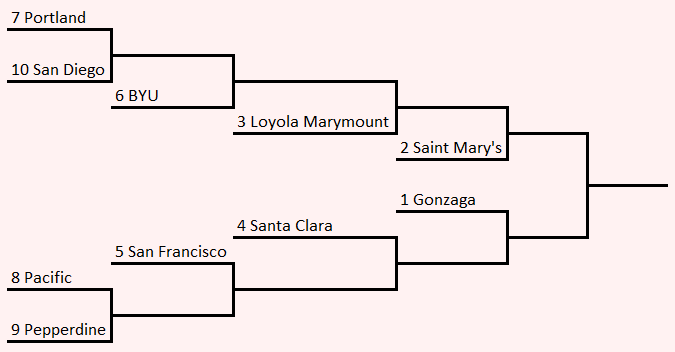
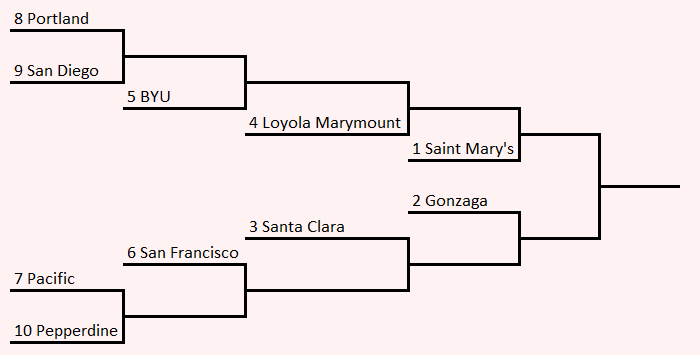
Update to ordered brackets in new style

Changed region(s): [[0.0, 0.375, 0.9956, 1.0], [0.3422, 0.1562, 0.7778, 0.4688], [0.0, 0.0312, 0.2489, 0.3125]]

diff --git a/thesis-tex/sections/Brackets/Ordered Brackets I.tex b/thesis-tex/sections/Brackets/Ordered Brackets I.tex
@@ -1,8 +1,8 @@
 \sub {
 
-Let's consider the proper bracket $\bracksig{16; 0; 0; 0; 0}$, which was used in the 2022 NCAA Women's Basketball Tournament Wichita Region, and is shown here: (Sometimes brackets are drawn in the manner below, with teams starting on both sides and the winner of each side playing in the championship game.)
+Let's consider the proper bracket $\bracksig{16; 0; 0; 0; 0}$, which was used in the 2022 NCAA Women's Basketball Tournament Wichita Region, and is shown below. (Sometimes brackets are drawn in the manner below, with teams starting on both sides and the winner of each side playing in the championship game.)
 
-\fig{0.8}{2021 NCAA Basketball Tournament South Region.png}{2022 NCAA Women's Basketball Tournament Wichita Region}{}
+\fig{0.8}{ncaa}{2022 NCAA Women's Basketball Tournament Wichita Region}{}
 
 The definition of a proper seeding ensures that as long as the bracket goes chalk (that is, higher seeds always beat lower seeds), it will always be better to be a higher seed than a lower seed. But what if it doesn't go chalk?
 
@@ -18,7 +18,7 @@ One counter-intuitive fact about the NCAA Basketball Tournament is that it is pr
     \end{tabular}
 \end{figg}
 
-The 9-seed has an easier first-round matchup, while the 10-seed has an easier second-round matchup. However, this isn't quite symmetrical. Because the teams are (most likely) drawn from a roughly normal distribution, the difference in skill between the 1- and 2-seeds is far greater than the difference between the 7- and 8-seeds, implying that the 10-seed does in fact have an easier route than the 9-seed.
+The 9-seed has an easier first-round matchup, while the 10-seed has an easier second-round matchup. However, this isn't quite symmetrical. Because the teams are probably drawn from a roughly normal distribution, the expected difference in skill between the 1- and 2-seeds is far greater than the expected difference between the 7- and 8-seeds, implying that the 10-seed does in fact have an easier route than the 9-seed.
 
 Nate Silver investigated this matter in full, finding that in the NCAA Basketball Tournament, seed-lines 10 through 15 give teams better odds of winning the region than seed-lines 8 and 9. Of course this does not mean that the 11-seed (say) has a better chance of winning a given region than the 8-seed does, as the 8-seed is a much better team than the 11-seed. But it does mean that the 8-seed would love to swap places with the 11-seed, and that doing so would increase their odds to win the region.
 
@@ -34,7 +34,7 @@ To fix this, we need a stronger notion of what makes a bracket effective than pr
     A list of teams is \textit{strongly stochastically transitive} if for each $i, j, k$ such that $j < k$, $$\P(t_i \textrm{ beats } t_j) \leq \P(t_i \textrm{ beats } t_k).$$
 \end{definition}
 
-A list of teams being strongly stochastically transitive (or SST) captures the intuition that each team ought to do better against lower-seeded teams than against lower-seeded teams.
+A list of teams being strongly stochastically transitive (or SST) captures the intuition that each team ought to do better against lower-seeded teams than against higher-seeded teams.
 
 A few quick implications of this definition are:
 
@@ -54,10 +54,10 @@ Our new, nuanced alternative a proper bracket is an \textit{ordered bracket}.
     A bracket and seeding are \textit{ordered} if, for any SST list of teams, if $i < j$, then $\P(t_i\textrm{ wins the tournament} )\geq \P(t_j\textrm{ wins the tournament}).$
 \end{definition}
 
-In many ways, a bracket being ordered is the strongest thing we can want without making any ``moral'' judgments. It might be unclear (and vary by situation) whether a it is better for a format to almost always declare the most-skilled team the winner, or to give each team roughly the same chance of winning, or anywhere in between. But certainly, better teams should win more, which is what the ordered bracket stipulation requires.
+In an informal sense, a bracket being ordered is the strongest thing we can want without knowing more about why the tournament is being played. Depending on the situation, we might be interested in a format that almost always declares the most-skilled team as the winner, or in a format that gives each team roughly the same chance of winning, or anywhere in between. But certainly, better teams should win more, which is what the ordered bracket condition requires.
 
 In particular, a bracket being ordered is a stronger claim than it being proper.
-%/A vs /B
+
 \theo{}{Every ordered bracket is proper.}{
     Let $\A$ be an ordered $n$-team bracket with $r$ rounds.\\
     
@@ -67,19 +67,19 @@ In particular, a bracket being ordered is a stronger claim than it being proper.
 
     Assume that this is true for every round up until $s$ and for all $i < j$ for some $j$. Let $\ell = (m + 2k + 1) - j.$ We want to show that if the the bracket goes chalk, $t_{m + j}$ will face off against seed $t_{\ell}$ in the given round. Consider the following SST matchup table: every game is a coin flip, except for games involving a team seeded $\ell$ or lower, in which case the higher seed always wins. Then, each team seeded between $\ell - 1$ and $m + j$ will win the tournament with probability $(\frac{1}{2})^{r-s},$ other than the team slated to play $t_\ell$ in round $s$ who wins with probability $(\frac{1}{2})^{r-i-1}.$ In order for $\B$ to be ordered, that team must be $t_{m+j}.$\\
 
-    Thus $\B$ satisfies both conditions, and so is a proper bracket.
+    Thus $\A$ satisfies both conditions, and so is a proper bracket.
 }{ordered_proper}
 
-With Theorem \ref{th:ordered_proper}, we can use the language of bracket signatures to describe ordered bracket without concerns over collision. What are some examples of ordered brackets? Let's look at three particularly important ones.
+With Theorem \ref{th:ordered_proper}, we can use the language of bracket signatures to describe ordered brackets without worrying that two ordered brackets might share a signature. Now we examine three particularly important examples of ordered brackets.
 
 We begin with the unique one-team bracket.
 
-\fig{1}{one_team.png}{The One-Team Bracket $\bracksig{1}$.}{}
+\fig{1}{one_team}{The One-Team Bracket $\bracksig{1}$.}
 \theo{}{The one-team bracket $\bracksig{1}$ is ordered.}{Since there is only team, the ordered bracket condition is vacuously true.}{}
 
 Next we look at the unique two-team bracket.
 
-\fig{1}{two_team.png}{The Two-Team Bracket $\bracksig{2; 0}$.}{}
+\fig{1}{two_team}{The Two-Team Bracket $\bracksig{2; 0}$.}
 \theo{}{The two-team bracket $\bracksig{2; 0}$ is ordered.}{Let $\A = \bracksig{2; 0}.$ Then,
 \begin{align*}
    \P[t_1 \textrm{ wins } \A] = \P[t_1 \textrm{ beats } t_2] \geq 0.5 \geq \P[t_2 \textrm{ beats } t_1] = \P[t_2 \textrm{ wins } \A],
@@ -89,7 +89,7 @@ so $\A$ is ordered.
 
 And thirdly, we show that the balanced four-team bracket is ordered.
 
-\fig{0.63}{four_team.png}{The Four-Team Bracket $\bracksig{4; 0; 0}$.}{}
+\fig{0.63}{four_team}{The Four-Team Bracket $\bracksig{4; 0; 0}$.}
 \theo{}{The four-team bracket $\bracksig{4; 0; 0}$ is ordered.}{Let $\A = \bracksig{2; 0}.$ Let $p_{ij}$ be the probability that the $i$-seed beats the $j$-seed. Then,
 \begin{align*}
     \P[t_1 \textrm{ wins } \A] &= p_{14} \cdot (p_{23}p_{12} + p_{32} p_{13})\\

diff --git a/thesis-tex/sections/Brackets/Ordered Brackets II.tex b/thesis-tex/sections/Brackets/Ordered Brackets II.tex
@@ -1,10 +1,10 @@
 \sub {
 
-We now attempt to completely specify the space of ordered brackets, culminating in Corollary \ref{th:construct_order} and Theorem \ref{th:limit_order}.
+We now attempt to completely specify the set of ordered brackets, culminating in Corollary \ref{th:construct_order} and Theorem \ref{th:limit_order}.
 
 We begin with a theorem that allows us to combine two smaller ordered brackets together into a larger ordered one by having the winner of one of the brackets slot into the lowest seed starting line of the other. This is depicted in Figure \ref{fig:ordered_bracket_staple}.
 
-\fig{.95}{ordere_bracket_sum.png}{The Setup of Theorem \ref{th:order_bracket_sum}}{ordered_bracket_staple}
+\fig{.95}{combine}{The Setup of Theorem \ref{th:order_bracket_sum}}
 
 \theo{}{If $\A$ and $\B$ are $n$- and $m$-team ordered brackets, respectively, we can construct an $(n + m - 1)$-team oredered bracket by replacing the lowest seed in $\B$ with the entire bracket $\A$ (lowering the seed of each team in $\A$ by $m-1$).}{
 Let $\C$ be the bracket formed by merging $\A$ and $\B.$ We divide proving that $\C$ is ordered into proving three substatements:
@@ -72,9 +72,9 @@ Corollary \ref{th:construct_order} uses the tools that we have developed so far 
 
     The situation so far (assuming all omitted games go chalk):
     \begin{center}
-        \includegraphics{images/two_must_play_ordered.png}
+        \graph{1}{two_must_play}
     \end{center}
-
+        
     We can use $\A$'s properness to determine that $i < j < k < m < m + 1 < \ell.$\\
 
     Consider now the following SST set of matchups: games between two teams seeded $\ell + 1$ or higher are coin flips, games between $t_\ell$ and teams seeded between $t_{\ell+1}$ and $t_k$ are coin flips, and all other games are always won by the higher seed.\\
@@ -98,9 +98,9 @@ And now the main theorem,
     Corollary \ref{th:construct_order} describes all proper brackets in which each round either has only game, or has two games but is immediately followed by a round with only one game. A proper bracket not described by Corollary \ref{th:construct_order} would thus have to include a round with two or more games followed by another round with two or more games, violating Lemma \ref{th:two_must_play}.
 }{limit_order}
 
-Theorem \ref{th:limit_order} is both exciting and disappointing. On one hand, it means that Corollary \ref{th:construct_order} fully describes the set of ordered brackets, making it easy to, e.g., check whether a given bracket is ordered or not. On the other hand, it means that in an ordered bracket at most three teams can be introduced each round, so the length of the shortest ordered bracket on $n$ teams grows linearly with $n$ (rather than logarithmically as is the case for proper brackets). If we want a bracket on many teams to be ordered, we risk forcing lower-seeded teams to play large numbers of games, and we only permit the top seeded teams to play a few. For example, if the shortest ordered bracket that could've been used in the 2022 NCAA Women's Basketball Wichita Region is $\bracksig{4; 0; 3; 0; 3; 0; 3; 0; 3; 0; 0},$ which is played over a whopping ten rounds.
+Theorem \ref{th:limit_order} is both exciting and disappointing. On one hand, it means that Corollary \ref{th:construct_order} fully describes the set of ordered brackets, making it easy to check whether a given bracket is ordered or not. On the other hand, it means that in an ordered bracket at most three teams can be introduced each round, so the length of the shortest ordered bracket on $n$ teams grows linearly with $n$ (rather than logarithmically as is the case for proper brackets). If we want a bracket on many teams to be ordered, we risk forcing lower-seeded teams to play large numbers of games, and we only permit the top seeded teams to play a few. For example, if the shortest ordered bracket that could've been used in the 2022 NCAA Women's Basketball Wichita Region is $\bracksig{4; 0; 3; 0; 3; 0; 3; 0; 3; 0; 0},$ which is played over a whopping ten rounds.
 
-\fig{.475}{ordered_sixteen.png}{The Shortest Sixteen-Team Ordered Bracket}{}
+\fig{.475}{ordered_sixteen}{The Shortest Sixteen-Team Ordered Bracket}
 
 Because of this, few leagues uses ordered brackets, and those who do usually have so few teams that every proper is bracket (the 2023 College Football Playoffs, for example.) Even the Korean Baseball Organization League, which uses a somewhat unconventional $\bracksig{2; 1; 1; 1; 0},$ only sends five teams to the playoffs, and again every five-team proper bracket is ordered. If the KBO League ever expanded to the six-team bracket $\bracksig{2; 1; 1; 1; 1; 0},$ we would have a case of an ordered bracket being used instead of a proper non-ordered bracket on the same number of teams.
 }

diff --git a/thesis-tex/main.tex b/thesis-tex/main.tex
@@ -30,8 +30,8 @@
     \sect {Brackets}
         \subsect{Bracket Signatures}
         \subsect{Proper Brackets}
-        %\subsect{Ordered Brackets I}
-        %\subsect{Ordered Brackets II}
+        \subsect{Ordered Brackets I}
+        \subsect{Ordered Brackets II}
         %\subsect{Alternative Seedings}
         %\subsect{Multiple Elimination}
         %\subsect{Semibrackets}
